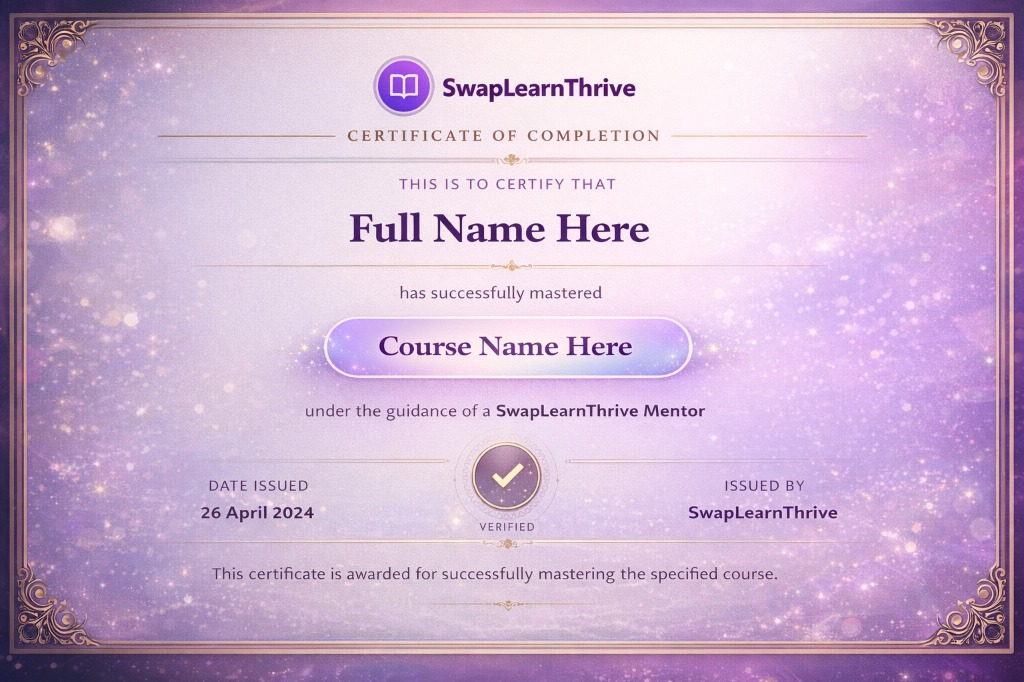
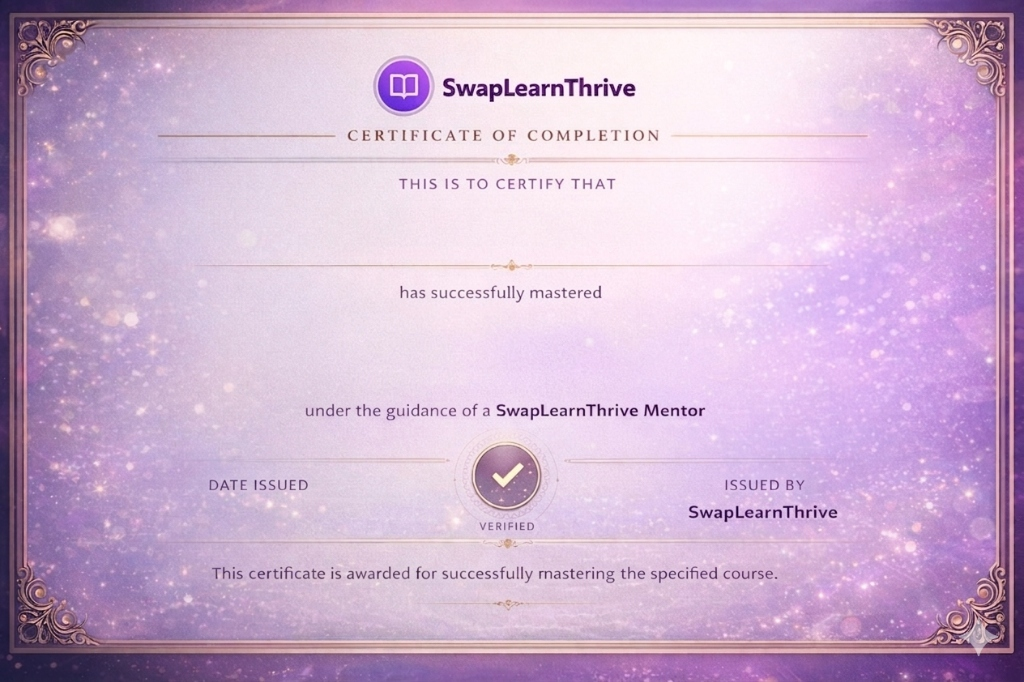
fix(certificate): apply fully blank template image and realign text overlays

diff --git a/src/pages/Certificates.tsx b/src/pages/Certificates.tsx
@@ -25,7 +25,7 @@ const CertificateCard = ({ userName, skillName, date, mentorName, isPreview = fa
     }}>
       {/* Certificate template image as background */}
       <img
-        src="/certificate-template.png"
+        src="/certificate-template.jpg"
         alt="Certificate Background"
         style={{
           position: "absolute",
@@ -53,7 +53,7 @@ const CertificateCard = ({ userName, skillName, date, mentorName, isPreview = fa
         {/* Full Name - positioned where "Full Name Here" appears */}
         <div style={{
           position: "absolute",
-          top: "28%",
+          top: "35%",
           left: "50%",
           transform: "translateX(-50%)",
           textAlign: "center",
@@ -72,7 +72,7 @@ const CertificateCard = ({ userName, skillName, date, mentorName, isPreview = fa
         {/* Course/Skill Name - positioned where "Course Name Here" pill appears */}
         <div style={{
           position: "absolute",
-          top: "56%",
+          top: "53%",
           left: "50%",
           transform: "translateX(-50%)",
           textAlign: "center",
